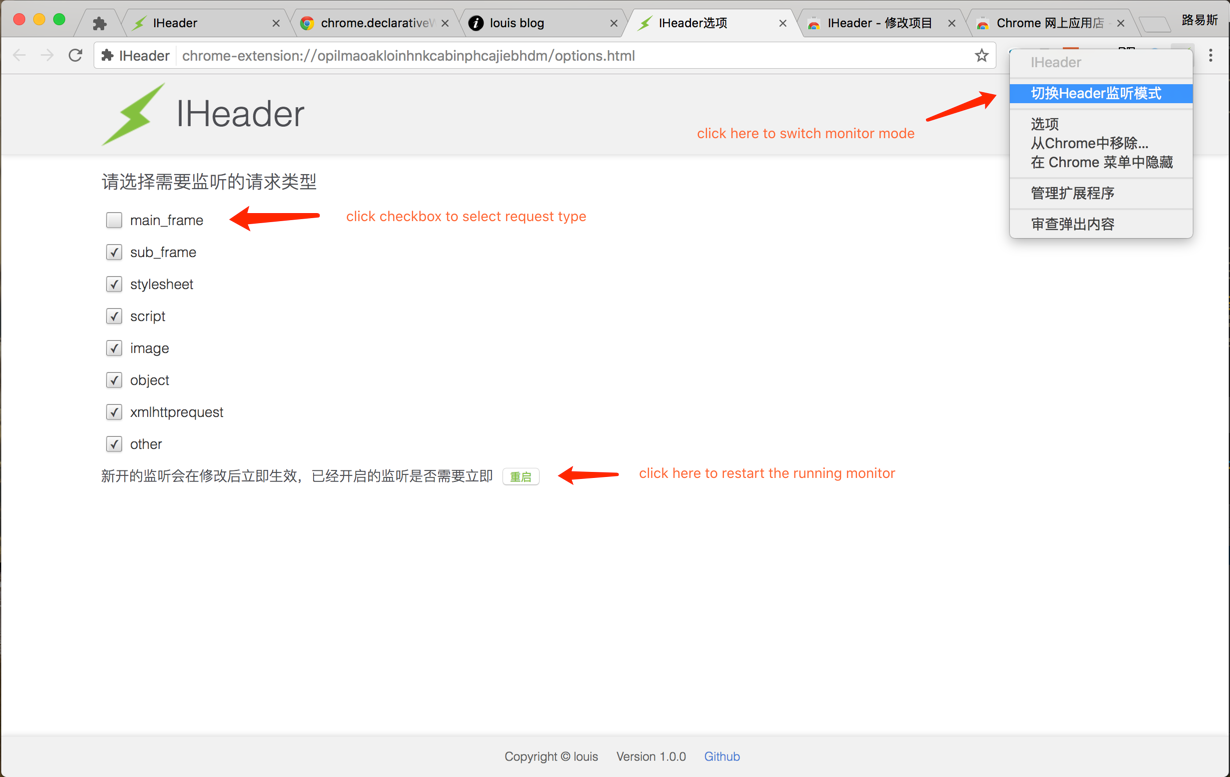
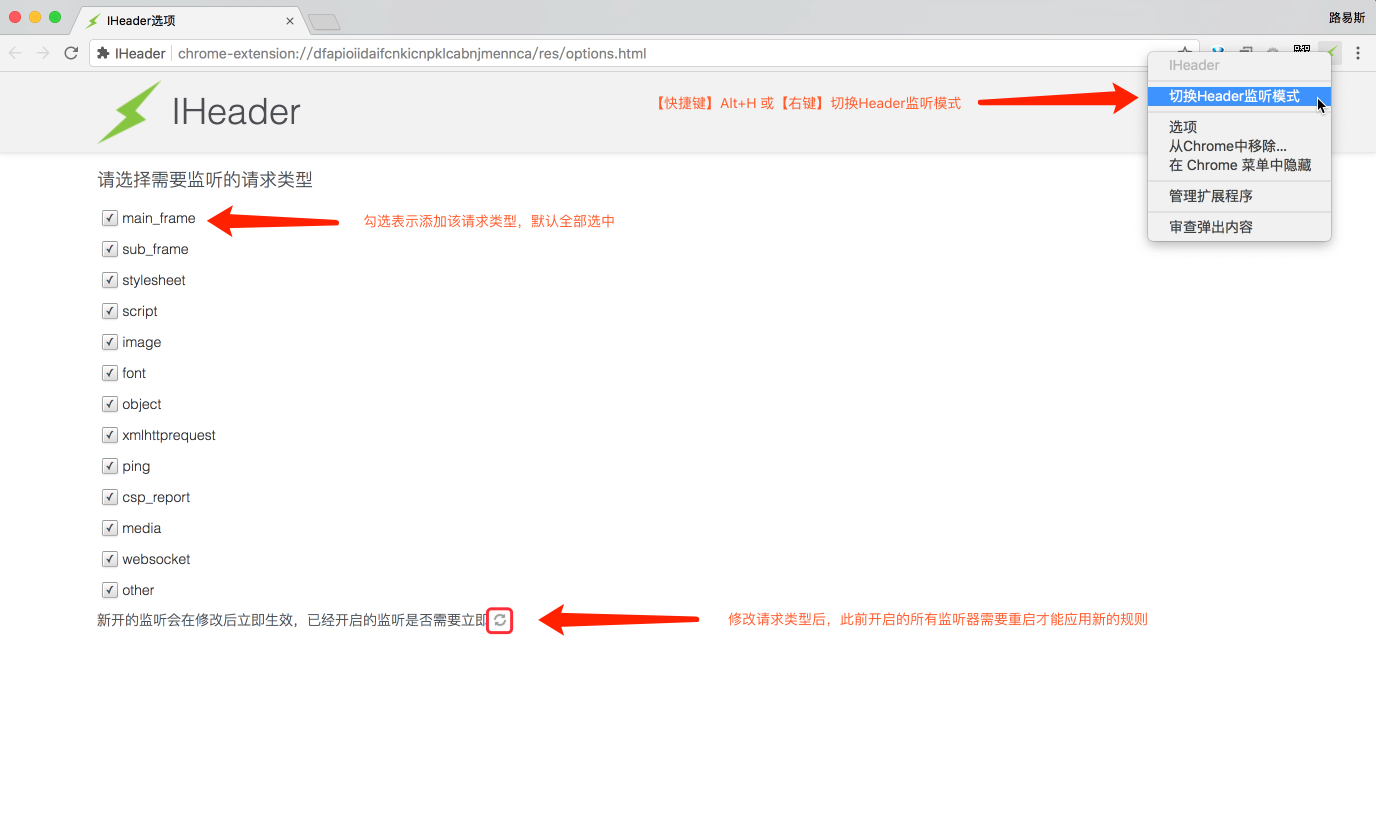
版本升级至v1.1.0

Changed region(s): [[0.0, 0.0, 1.0, 1.0], [0.5252, 0.5869, 0.7415, 0.6178], [0.4016, 0.9575, 0.6179, 0.9884]]

diff --git a/res/options.html b/res/options.html
@@ -111,7 +111,7 @@
     </div>
     <footer>
       <span>Copyright © louis</span>
-      <span>Version 1.0.0</span>
+      <span>Version 1.1.0</span>
       <span><a href="http://github.com/Louiszhai/IHeader">Github</a></span>
     </footer>
   </body>

diff --git a/README_zh_CN.md b/README_zh_CN.md
@@ -1,0 +1,73 @@
+<a target="_blank" href="https://chrome.google.com/webstore/detail/iheader/polajedphjkpjbfljoabmcejpcckeked?utm_source=chrome-ntp-icon">![Try it](https://raw.github.com/GoogleChrome/chrome-app-samples/master/tryitnowbutton.png "Click here to install this sample from the Chrome Web Store")</a>
+
+# IHeader
+
+![License MIT](https://img.shields.io/npm/l/express.svg)
+
+Author: louis
+
+Blog: http://louiszhai.github.io
+
+Github: http://github.com/Louiszhai/IHeader
+
+该扩展主要用于监听页面请求响应头，从而到达添加、删除或修改域字段目的。它同样适用于渗透测试。请求头和响应头字段的修改符合以下规则：
+
+> Chrome对于请求头和响应头的展示有着明确的规定，即控制台中只展示发送出去或刚接收到的字段。因此编辑后的请求字段，控制台的network栏能够正常展示；而编辑后的响应字段由于不属于刚接收到的字段，所以从控制台上就会看不到编辑的痕迹，如同没修改过一样，实际上编辑仍然有效。
+
+对于请求头而言，**部分缓存有关的字段**（Authorization、Cache-Control、Connection、Content-
+Length、Host、If-Modified-Since、If-None-Match、If-Range、Partial-Data、Pragma、Proxy-
+Authorization、Proxy-Connection和Transfer-Encoding）不会出现在请求信息中，可以通过添加同名的key覆盖修改其值，但是不能删除它。
+
+对于响应头而言，只能修改或删除非缓存相关字段或添加字段，由于响应头允许多个同名字段同时存在，因此无法覆盖修改缓存相关的字段。
+
+## Clone
+
+```
+git clone git@github.com:Louiszhai/IHeader.git
+```
+
+## Install
+
+请在 [IHeader - 谷歌商店](https://chrome.google.com/webstore/detail/iheader/polajedphjkpjbfljoabmcejpcckeked?utm_source=chrome-ntp-icon) 中安装它。
+
+或者下载Github源码，点击`chrome://extensions/`页面的`加载已解压的扩展程序`按钮，选择源码目录以调试模式运行（由于Github源码更新比较及时，因此推荐这种安装方式）。
+
+## Guide
+
+IHeader扩展默认的快捷键是**`Alt+H`**，按下该快捷键可以切换当前Tab监听的状态（开启或关闭）。如果你忘了快捷键，记得还有一个右键菜单可以做同样的事情。
+
+根据我的设置，所有的请求使用一致的过滤规则，这些过滤规则可以在选项页面重新设置。
+
+请务必注意，当你修改过滤规则时，已经启用的监听器需要重启才能让新的规则生效。以上内容，如下图所示。
+
+![定制过滤规则](./guide-images/IHeader-screen06.png)
+
+监听开启后，扩展能够自动记录当前页面的请求，如下所示：
+
+![当前页面的请求列表](./guide-images/IHeader-screen.png)
+
+对于以上请求列表的每项，我们都可以新增、修改或者删除一些HTTP字段来定制它。定制规则共有两种生效方式：①当前标签页有效（默认），②全局有效，如下所示：
+
+![修改、删除或保存功能](./guide-images/IHeader-screen02.png)
+
+另外，这些请求列表不是一直在这的，默认情况下，每次页面刷新或者跳转，之前的请求记录都会被清除，你可以通过勾选多选框，来取消默认动作，从而使得这些请求记录都被保存下来。如果希望马上清除所有的请求记录，点击以下的清除按钮就行。
+
+![新增字段、清除消息](./guide-images/IHeader-screen03.png)
+
+请求列表同时支持搜索功能，匹配到的请求将会被筛选出来，同时匹配文本也会高亮显示。
+
+![请求列表支持搜索](./guide-images/IHeader-screen04.png)
+
+此外，扩展包含另外一个tab栏来显示所有定制的规则，你可以选中一个定制的规则并且还原它，还可以在定制的基础上修改监听的URL，避免部分请求的URL末尾参数的变化导致监听失败。目前，对于请求URL的匹配，仅支持包含匹配（暂不引入正则匹配，这是为了避免使用中出现复杂低效的正则表达式，从而影响到Chrome中请求的加载速度）。
+
+以下，type值为"A/M"的意味着新增或修改的字段（缓存有关字段的新增和修改场景无法区分，所以合并展示）。
+
+type值为"D"的意味着删除的字段。
+
+![查看或还原已定制的规则](./guide-images/IHeader-screen05.png)
+
+使用过程中如有任何疑问，欢迎随时给我提issue。
+
+## License
+
+Released under [MIT](http://rem.mit-license.org/)  LICENSE.
